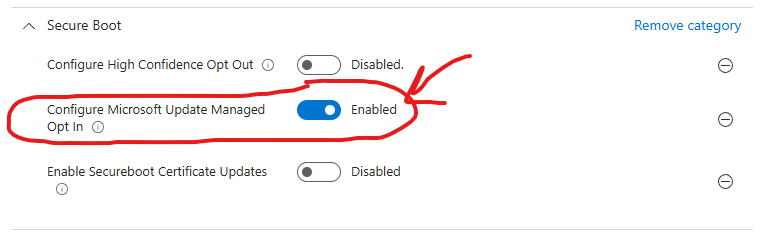
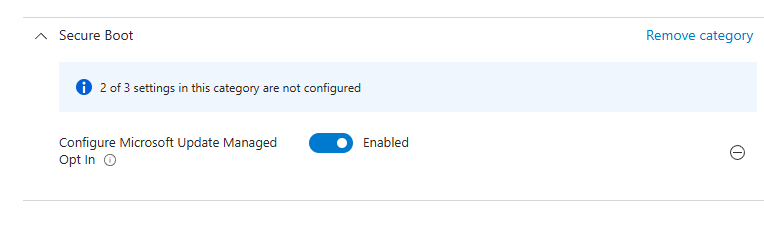
minor updates

diff --git a/_posts/2025-09-03-SecureBoot-Cert-Expiration.md b/_posts/2025-09-03-SecureBoot-Cert-Expiration.md
@@ -31,7 +31,7 @@ You have several options for deploying the secure boot certificates. The most in
 
 ### Option 1 - Automatic rollout via High-confidence buckets
 
-This is the most hands-off approach, but it also requires a bit of faith that your device has been placed into one of Microsoft’s “high-confidence buckets.” If it hasn’t, the device won’t automatically receive the updated Secure Boot certificates. But otherwise note that this option is turned on by default, and is one you have to opt-out of.
+This is the most hands-off approach, but it also requires a bit of faith that your device has been placed into one of Microsoft’s “high-confidence buckets.” If it hasn’t, the device won’t automatically receive the updated Secure Boot certificates. But otherwise note that this option is turned on by default, and is one you have to opt-out of, if you don't want to be part of the automatic rollout.
 
 Microsoft describes this process as follows:
 
@@ -40,6 +40,9 @@ Microsoft describes this process as follows:
 **Microsoft hosted an AMA the 10th of December 2025 where they clarified the following:**
 > "A high-confidence device refers to one that Microsoft can reliably identify and update automatically through Windows Update without additional intervention. These devices typically meet criteria such as: Trusted diagnostic data signals confirming the device’s identity and compatibility, Secure Boot enabled and using supported UEFI firmware, Running a supported Windows version that can receive updates and No anomalies in the boot chain or firmware keys that could block the update process."
 
+There should be no harm in letting Microsoft update devices via this channel, but if you want to opt-out of this option, you can set a policy to opt out
+
+![Policy](/assets/images/2025-09-03-SecureBoot-Cert-Expiration/SettingsCatalog-OptOut.png?raw=true "High Confience Opt-out")
 
 ### Option 2 - Automatic rollout via Microsoft Controlled Feature Rollout (CFR)
 
